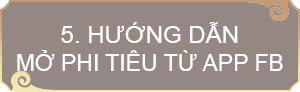
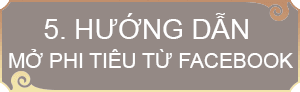
fix

Changed region(s): [[0.03, 0.5217, 0.99, 0.7826], [0.15, 0.1304, 0.84, 0.4783]]

diff --git a/src/containers/phitieu/mobile/home.js b/src/containers/phitieu/mobile/home.js
@@ -1240,10 +1240,10 @@ class Lucky_Rotation extends React.Component {
 							</div>
 							{/* <!-- Begin Tab hd5 --> */}
 							<div class={tab_5 ? "tab-pane container mt-3 active" : "tab-pane container mt-3 fade"} id="hd5">
-								<h4 class="font-size-3vw_m font-weight-bold">5. Hướng dẫn mở link game Phi tiêu từ app Facebook của điện thoại</h4>
+								<h4 class="font-size-3vw_m font-weight-bold">5. Hướng dẫn mở link game Phi tiêu từ Facebook của điện thoại</h4>
 								<dl class="font-size-3vw_m">
 									<dd>- Để trải nghiệm game được tốt nhất, Khách hàng lưu ý sử dụng trình duyệt <strong>SAFARI</strong> (đối với điện thoại Iphone) hoặc <strong>CHROME</strong> (đối với điện thoại Android) để mở link game <a href="https://phitieu.splay.vn/" title="">https://phitieu.splay.vn/</a> </dd>
-									<dd> Với những khách hàng mở link <a href="https://phitieu.splay.vn/" title="">https://phitieu.splay.vn/</a> từ app Facebook của điện thoại, hãy thực hiện theo hướng dẫn dưới đây.</dd>
+									<dd> Với những khách hàng mở link <a href="https://phitieu.splay.vn/" title="">https://phitieu.splay.vn/</a> từ Facebook của điện thoại, hãy thực hiện theo hướng dẫn dưới đây.</dd>
 									<dt>1.	Đối với điện thoại Iphone: </dt>
 									<dd><strong>Bước 1</strong>: Ấn vào đường link <a href="https://phitieu.splay.vn/" title="">https://phitieu.splay.vn/</a> từ bài viết tại fanpage Scoin (hoặc bài viết bất kỳ trên Facebook)</dd>
 									<dd> <img src={fb_i1} width="250" class="img-fluid d-block mx-auto" alt="" /></dd>
@@ -1411,7 +1411,7 @@ class Lucky_Rotation extends React.Component {
 						</div>
 						<div class="modal-body border-0 py-0 mb-2 mt-2 px-3 scroll-modal-body_m">
 							<div class="container mt-2">
-								<h4 class="font-size-3vw_m font-weight-bold">Hướng dẫn mở link game Phi tiêu từ app Facebook của điện thoại</h4>
+								<h4 class="font-size-3vw_m font-weight-bold">Hướng dẫn mở link game Phi tiêu từ Facebook của điện thoại</h4>
 								<dl class="font-size-3vw_m">                
 									<dd> Khách hàng lưu ý sử dụng trình duyệt <strong>SAFARI</strong> (đối với điện thoại Iphone) hoặc <strong>CHROME</strong> (đối với điện thoại Android) để mở link game <a href="https://phitieu.splay.vn/" title="">https://phitieu.splay.vn/</a></dd>
 									<dt>1.	Đối với điện thoại Iphone: </dt>                

diff --git a/src/containers/phitieu/web/home.js b/src/containers/phitieu/web/home.js
@@ -1239,10 +1239,10 @@ class Lucky_Rotation extends React.Component {
 
 						{/* <!-- Begin Tab hd5 --> */}
 						<div class={tab_5 ? "tab-pane container mt-3 active" : "tab-pane container mt-3 fade"} id="hd5">
-							<h4 class="font-size-16 font-weight-bold">5. Hướng dẫn mở link game Phi tiêu từ app Facebook của điện thoại</h4>
+							<h4 class="font-size-16 font-weight-bold">5. Hướng dẫn mở link game Phi tiêu từ Facebook của điện thoại</h4>
 							<dl class="font-size-16">
 								<dd>- Để trải nghiệm game được tốt nhất, Khách hàng lưu ý sử dụng trình duyệt <strong>SAFARI</strong> (đối với điện thoại Iphone) hoặc <strong>CHROME</strong> (đối với điện thoại Android) để mở link game <a href="https://phitieu.splay.vn/" title="">https://phitieu.splay.vn/</a> </dd>
-								<dd> Với những khách hàng mở link <a href="https://phitieu.splay.vn/" title="">https://phitieu.splay.vn/</a> từ app Facebook của điện thoại, hãy thực hiện theo hướng dẫn dưới đây.</dd>
+								<dd> Với những khách hàng mở link <a href="https://phitieu.splay.vn/" title="">https://phitieu.splay.vn/</a> từ Facebook của điện thoại, hãy thực hiện theo hướng dẫn dưới đây.</dd>
 								<dt>1.	Đối với điện thoại Iphone: </dt>
 								<dd><strong>Bước 1</strong>: Ấn vào đường link <a href="https://phitieu.splay.vn/" title="">https://phitieu.splay.vn/</a> từ bài viết tại fanpage Scoin (hoặc bài viết bất kỳ trên Facebook)</dd>
 								<dd> <img src={fb_i1} width="250" class="img-fluid d-block mx-auto" alt="" /></dd>
